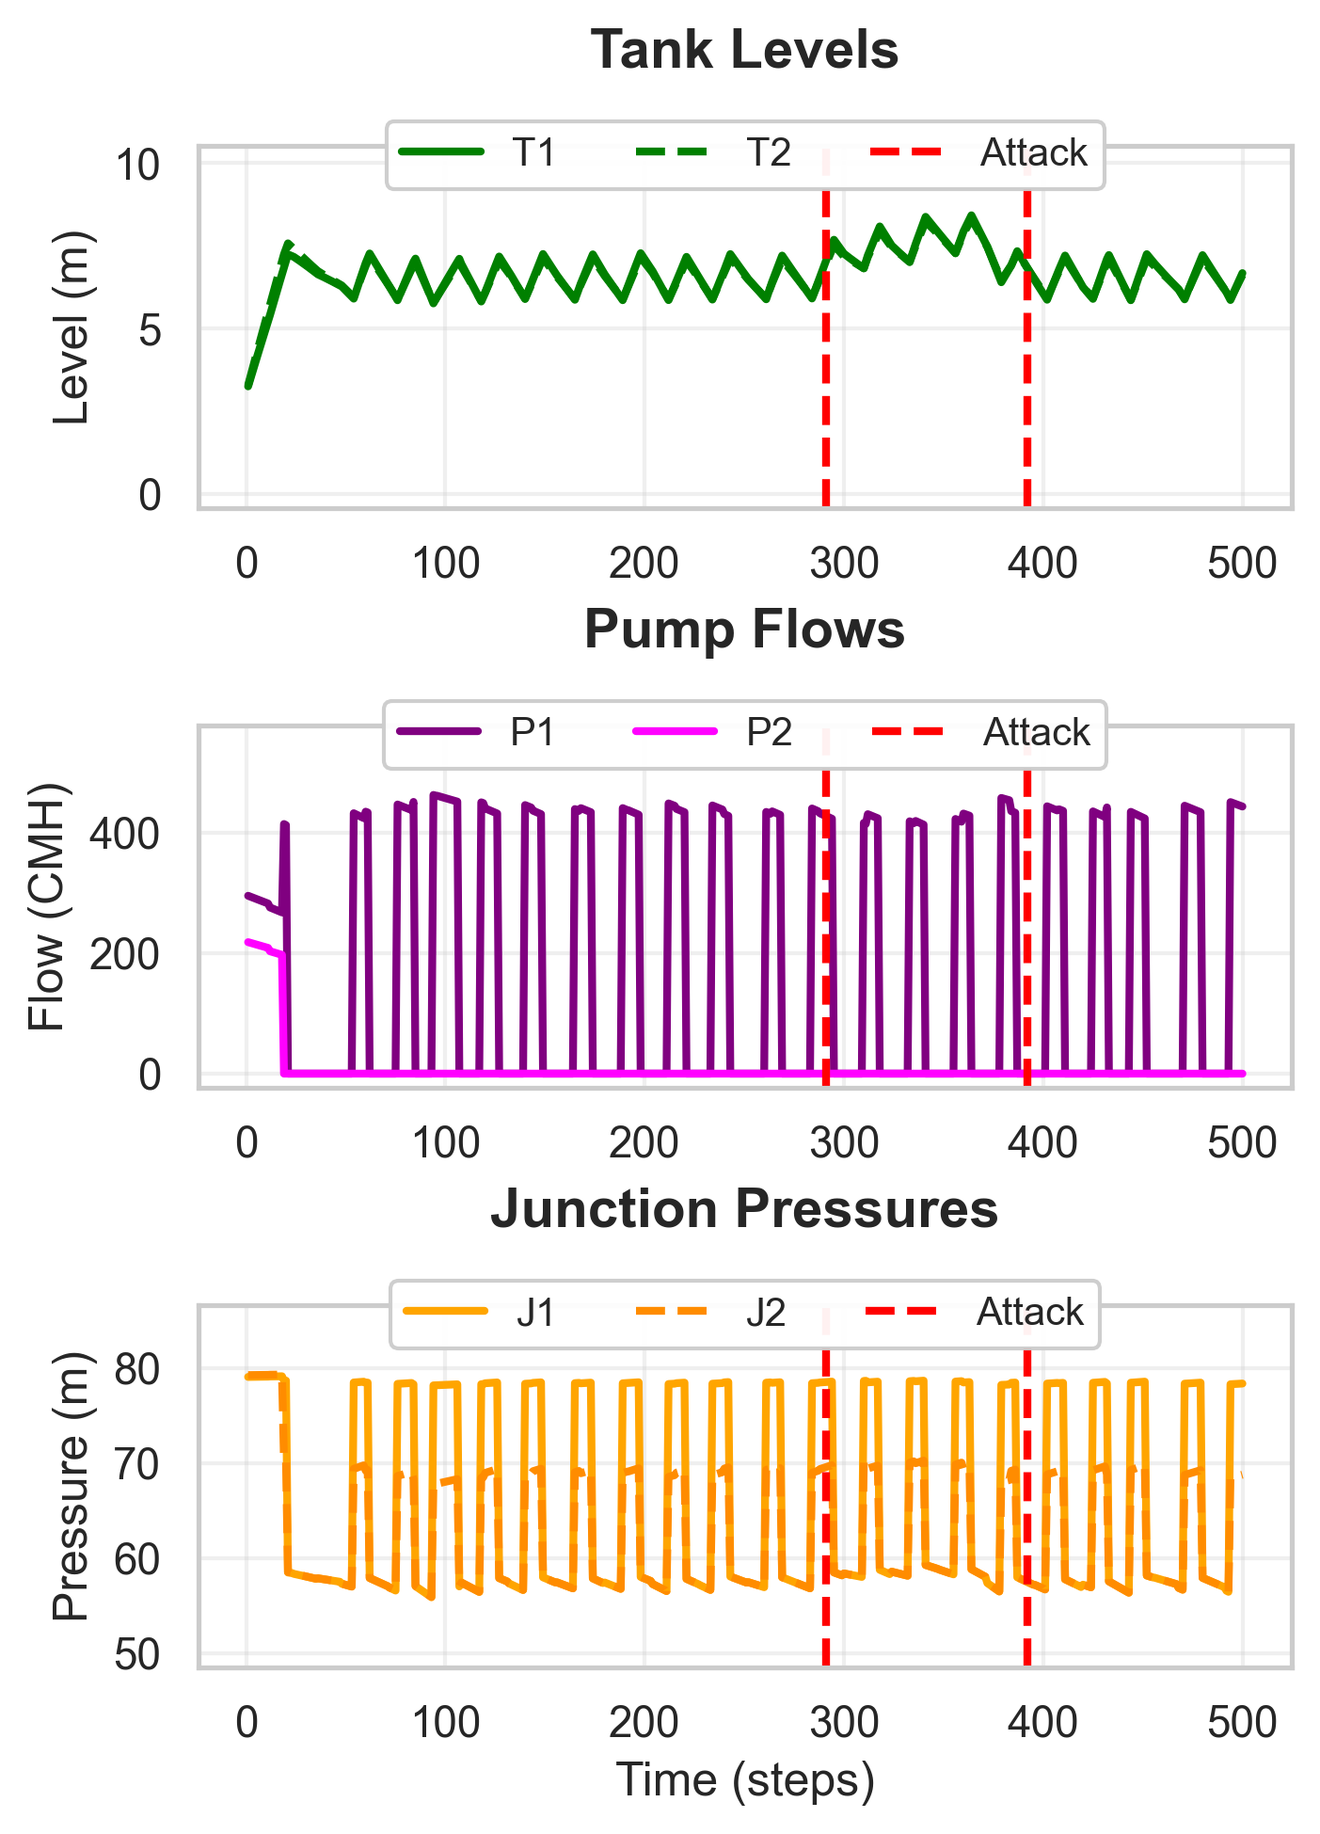
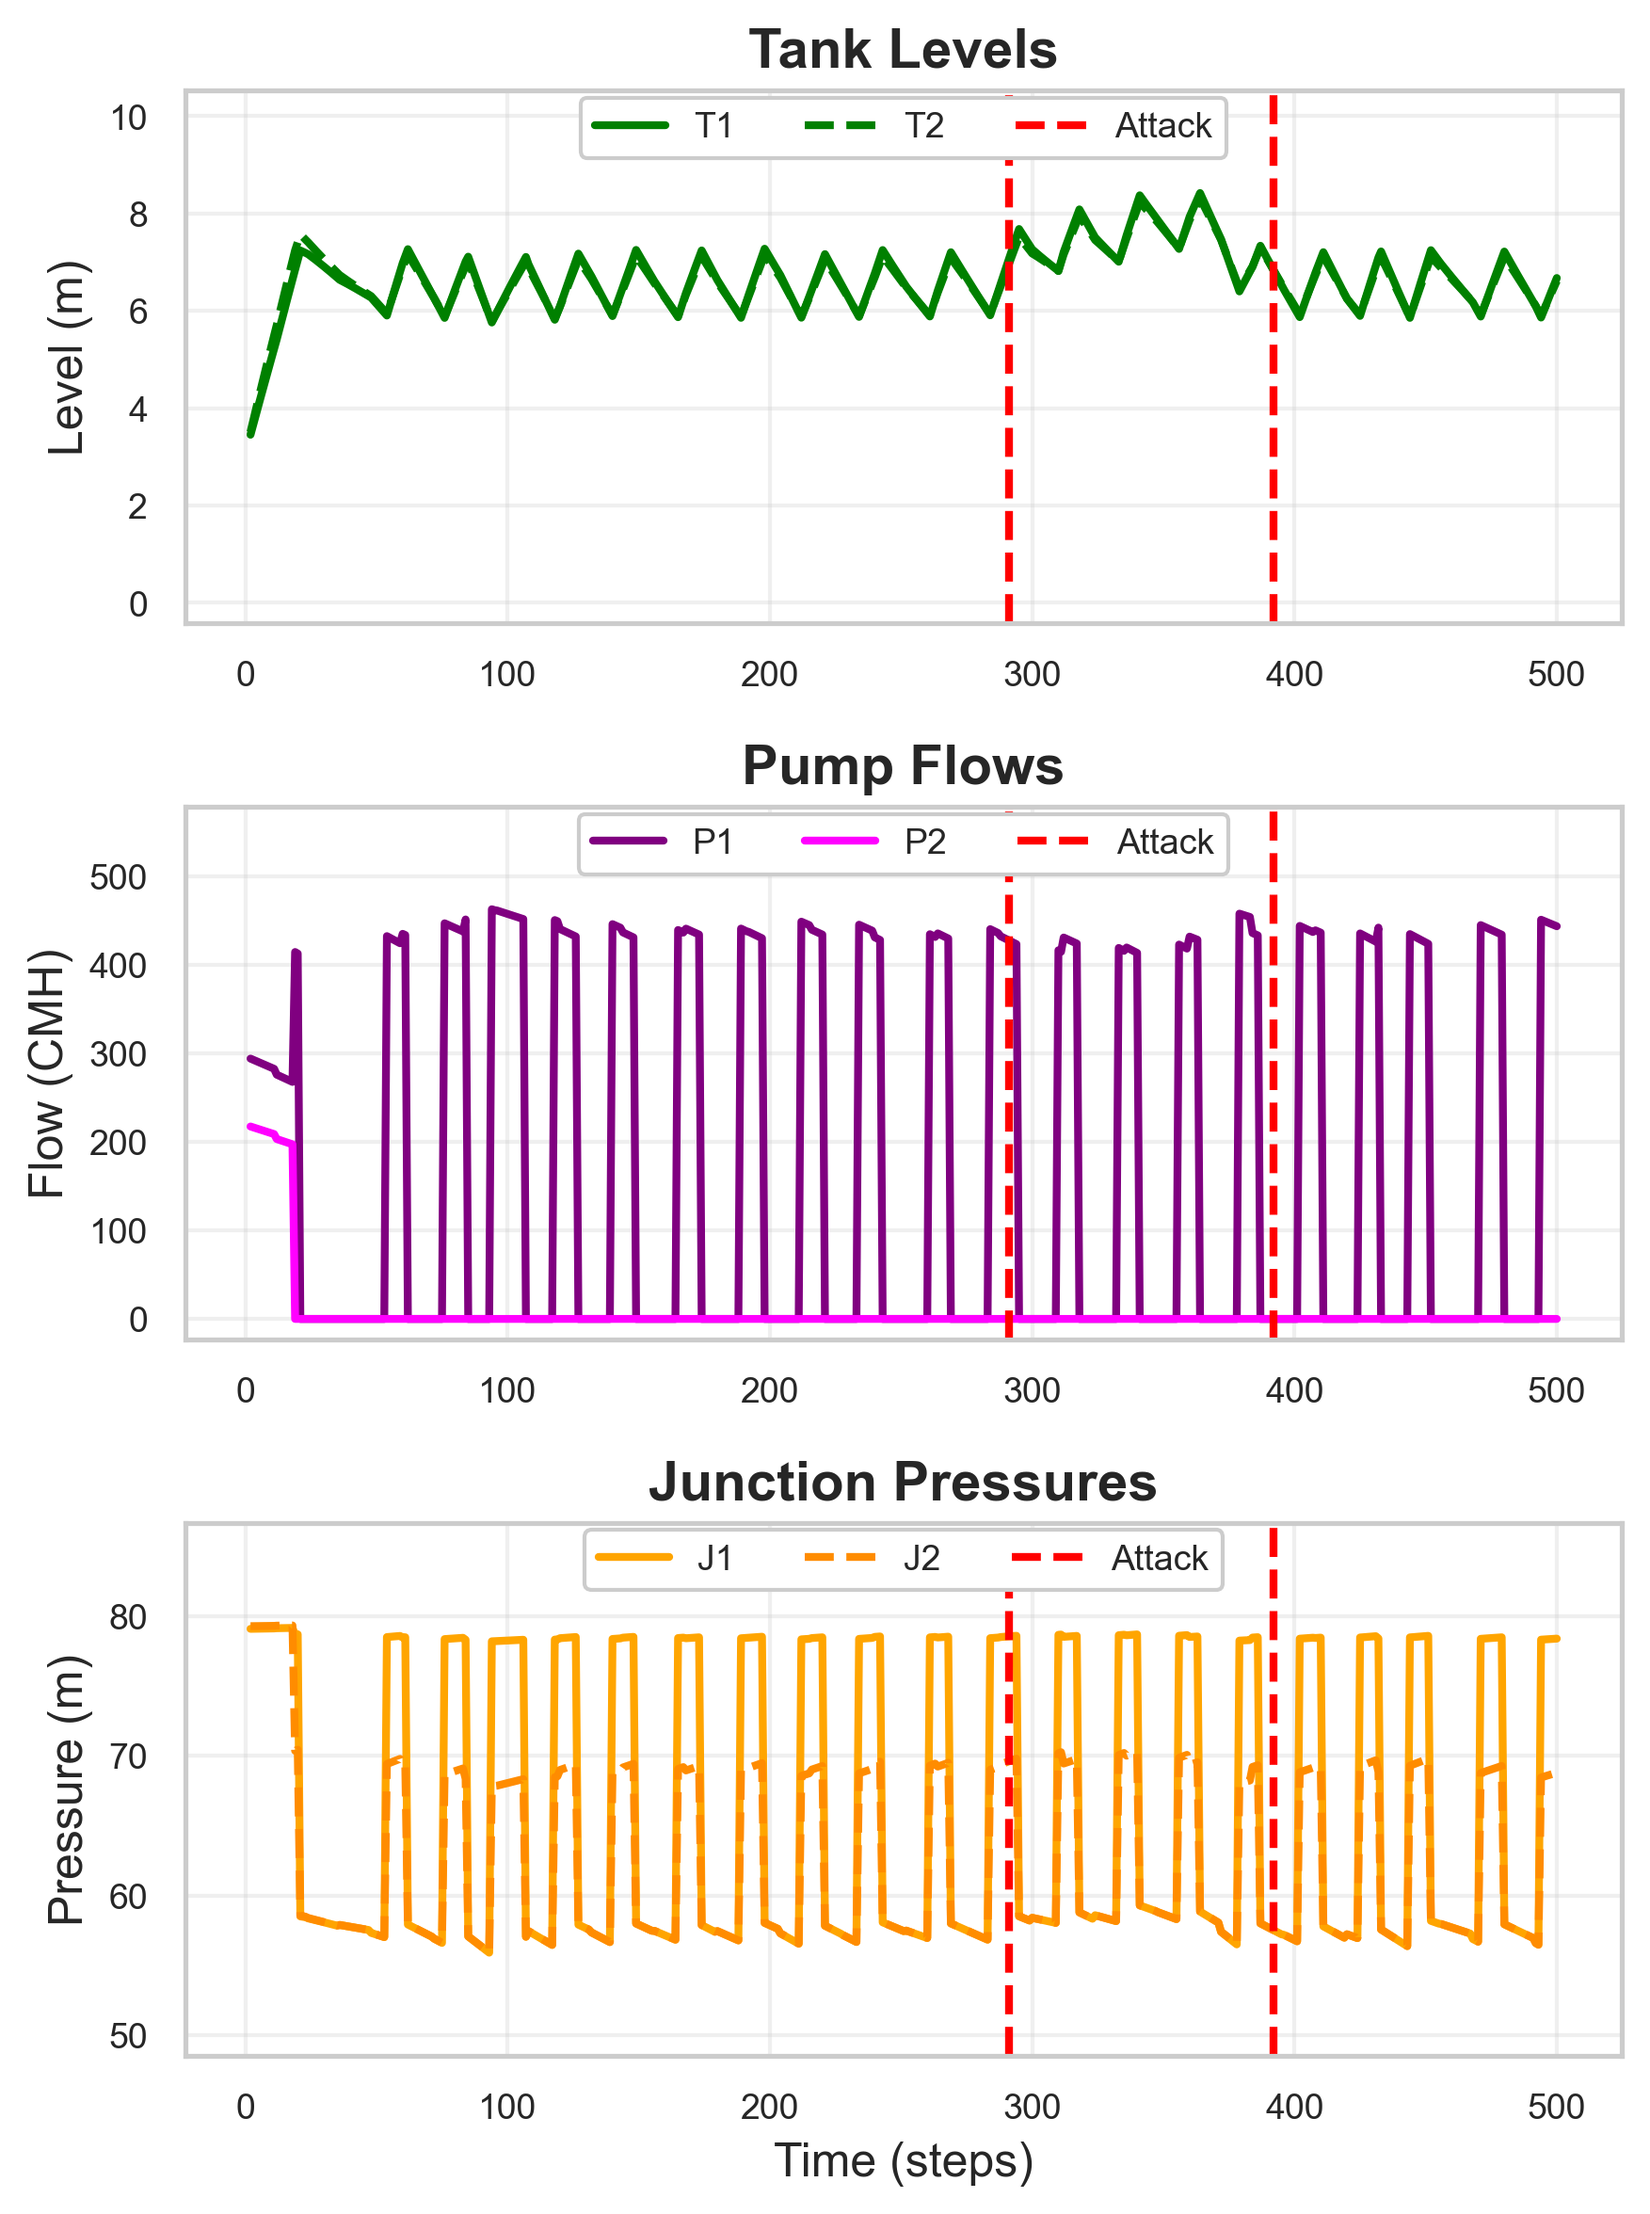
Update visualization to skip first two iterations (0 and 1)
- Modified skip_first_iteration() to filter out iterations 0 and 1
- Regenerated all SCADA case plots with cleaner data (no initialization artifacts)
- Plots now start from iteration 2 onwards

diff --git a/aaaMyViz/run_visualization.py b/aaaMyViz/run_visualization.py
@@ -56,6 +56,14 @@ def add_legend_top_center(ax):
               fancybox=True, framealpha=1, fontsize=9)
     ax.tick_params(axis='both', labelsize=9)
 
+def skip_first_iteration(df):
+    """Skip the first iteration (iteration 0 and 1) from the dataframe."""
+    if 'iteration' in df.columns:
+        return df[df['iteration'] > 1].reset_index(drop=True)
+    else:
+        # If no iteration column, drop the first two rows
+        return df.iloc[2:].reset_index(drop=True)
+
 # ============================================
 # 0. Cyber Layer - Packet Analysis (PCAP)
 # ============================================
@@ -211,7 +219,9 @@ print("\n[1/4] Generating DoS No Guard - Ground Truth plot...")
 try:
     ground_truth_df = pd.read_csv('../examples/EdenTown/Scada_Case/2_DoS_NoGuard/outputNew2/ground_truth.csv')
     scada_df = pd.read_csv('../examples/EdenTown/Scada_Case/2_DoS_NoGuard/outputNew2/scada_values.csv')
-    ground_truth_df = ground_truth_df.drop(0)
+    # Skip first iteration (iteration 0) for cleaner plots
+    ground_truth_df = skip_first_iteration(ground_truth_df)
+    scada_df = skip_first_iteration(scada_df)
 
     attack_intervals = find_attack_intervals(ground_truth_df, 'plc2AttackerUnit')
     attack_start, attack_end = attack_intervals[0]
@@ -318,7 +328,9 @@ print("\n[3/4] Generating DoS WITH Guard - Ground Truth plot...")
 try:
     ground_truth_guard_df = pd.read_csv('../examples/EdenTown/Scada_Case/3_DoS_WithGuard/outputNew3/ground_truth.csv')
     scada_guard_df = pd.read_csv('../examples/EdenTown/Scada_Case/3_DoS_WithGuard/outputNew3/scada_values.csv')
-    ground_truth_guard_df = ground_truth_guard_df.drop(0)
+    # Skip first iteration (iteration 0) for cleaner plots
+    ground_truth_guard_df = skip_first_iteration(ground_truth_guard_df)
+    scada_guard_df = skip_first_iteration(scada_guard_df)
 
     attack_intervals_guard = find_attack_intervals(ground_truth_guard_df, 'plc2AttackerUnit')
     attack_start_guard, attack_end_guard = attack_intervals_guard[0]
